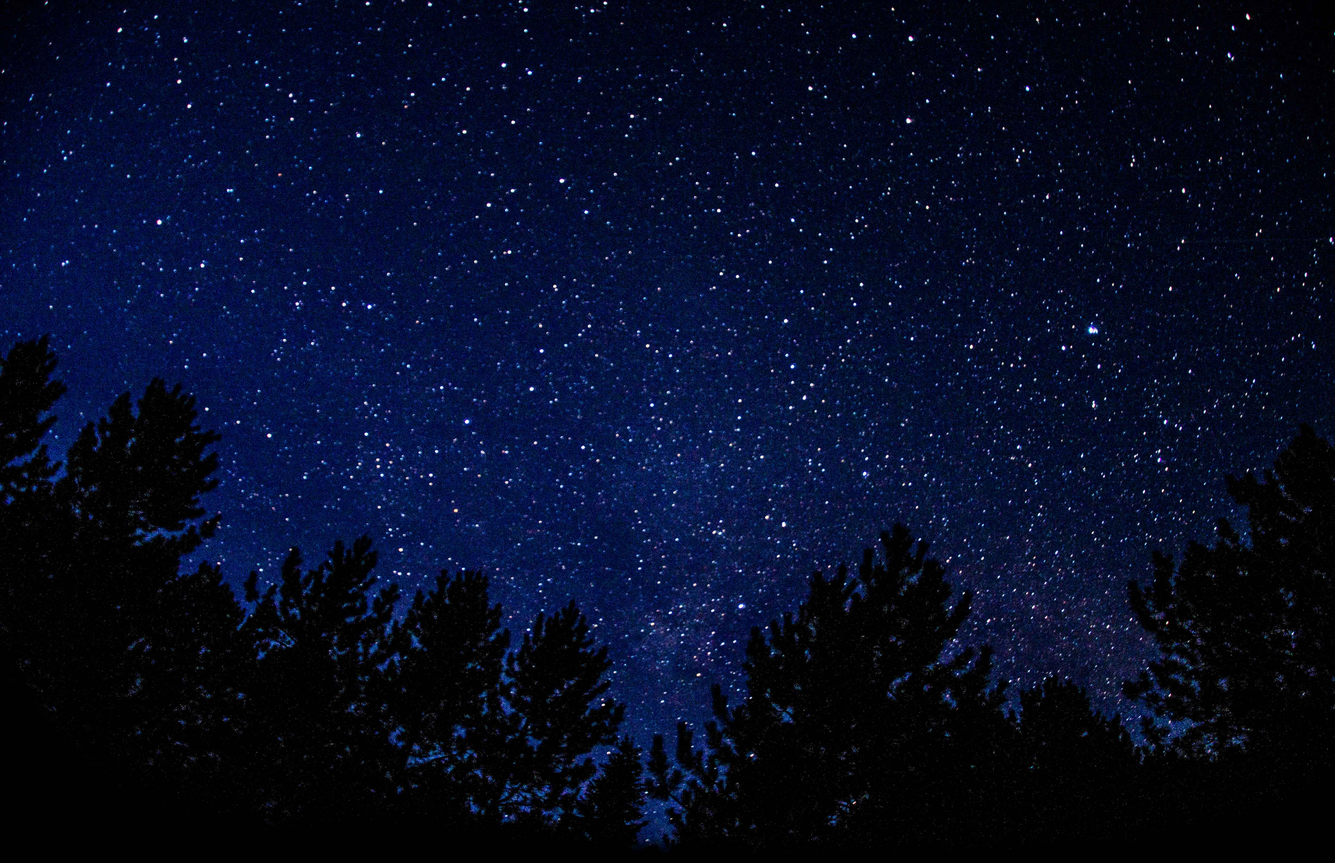
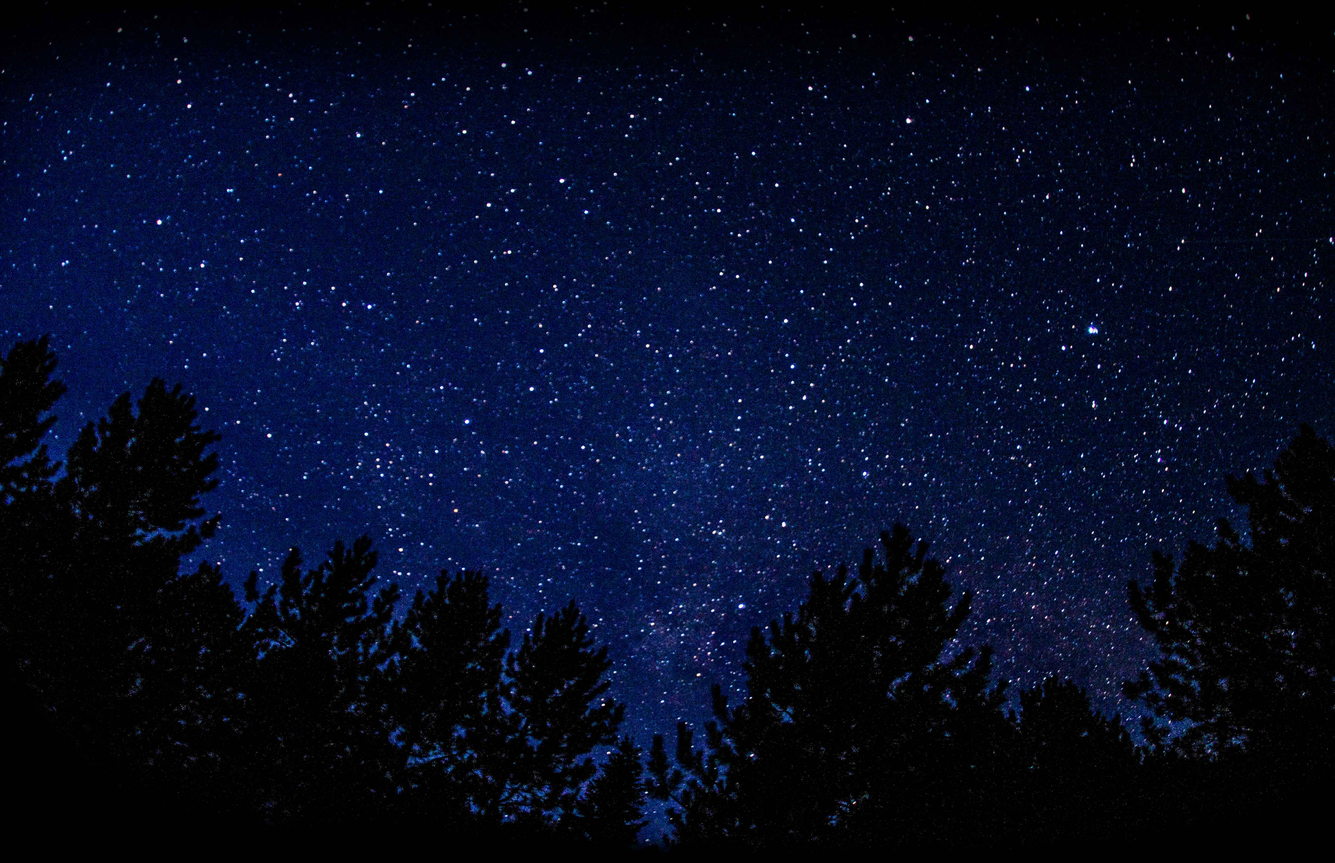
fixed blurry images

Changed region(s): [[0.0312, 0.0, 0.625, 0.0932]]

diff --git a/src/pages/index.js b/src/pages/index.js
@@ -186,8 +186,8 @@ IndexPage.propTypes = {
 export const pageQuery = graphql`
   query IndexQuery {
     headerImage: imageSharp(id: { regex: "/header/" }) {
-      sizes(maxWidth: 1567) {
-        ...GatsbyImageSharpSizes
+      sizes(maxWidth: 9856) {
+        ...GatsbyImageSharpSizes_tracedSVG
       }
     }
     allMarkdownRemark(sort: { order: DESC, fields: [frontmatter___date] }) {
